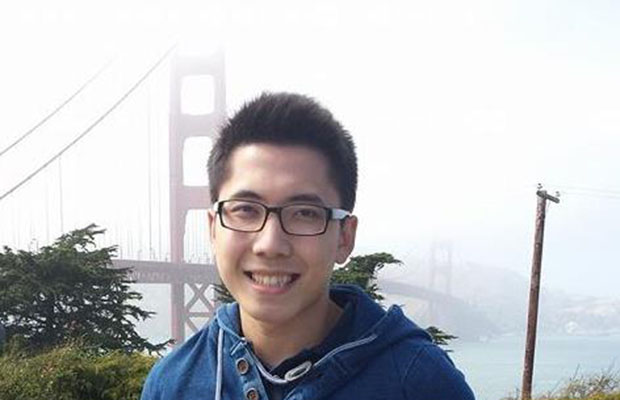
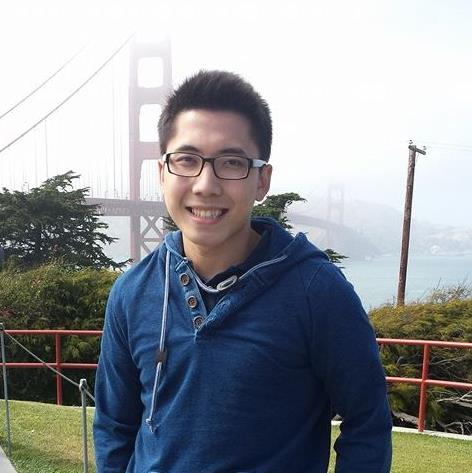
resized images for about page

diff --git a/templates/about.html b/templates/about.html
@@ -77,11 +77,11 @@
                                 <div class="bio">
                                     <p>
                                         <ul>
-                                            <li>Weirdest Quirk: Mean to Computers</li>
                                             <li>major responsibilities: Full-Stack</li>
                                             <li>no. of commits: 35</li>
                                             <li>no. of issues: 10</li>
                                             <li>no. of unit tests: 6</li>
+                                            <li>Weirdest Quirk: Mean to Computers</li>
                                         </ul>
                                     </p>
                                 </div>
@@ -99,11 +99,11 @@
                                     <!-- <h5> <strong> Developer & Designer </strong></h5> -->
                                     <p>
                                         <ul>
-                                            <li>Fun Fact: Huge Thrifter</li>
                                             <li>major responsibilities: Front-End</li>
                                             <li>no. of commits: 36</li>
                                             <li>no. of issues: 13</li>
                                             <li>no. of unit tests: 4</li>
+                                            <li>Fun Fact: Huge Thrifter</li>
                                         </ul>
                                     </p>
                                 </div>
@@ -121,11 +121,11 @@
 
                                     <p>
                                         <ul>
-                                            <li>Frisbee</li>
-                                            <li>major responsibilities: Front-End and Data</li>
+                                            <li>major responsibilities: Front-End, Data</li>
                                             <li>no. of commits: 36</li>
                                             <li>no. of issues: 15</li>
                                             <li>no. of unit tests: 3</li>
+                                            <li>Frisbee</li>
 
                                         </ul>
                                     </p>
@@ -142,11 +142,11 @@
                                 <div class="bio">
                                     <p>
                                         <ul>
-                                            <li>Favorite Travel Destination: Alaska</li>
                                             <li>major responsibilities: Back-End</li>
                                             <li>no. of commits: 9</li>
                                             <li>no. of issues: 13</li>
                                             <li>no. of unit tests: 3</li>
+                                            <li>Favorite Travel Destination: Alaska</li>
                                         </ul>
                                     </p>
                                 </div>
@@ -163,11 +163,11 @@
                                 <div class="bio">
                                     <p>
                                         <ul>
-                                            <li>Favorite Eatery: Taco Joint</li>
-                                            <li>major responsibilities: Back-End and Data</li>
+                                            <li>major responsibilities: Back-End, Data</li>
                                             <li>no. of commits: 10</li>
                                             <li>no. of issues: 15</li>
                                             <li>no. of unit tests: 3</li>
+                                            <li>Favorite Eatery: Taco Joint</li>
                                         </ul>
                                     </p>
                                 </div>
@@ -184,11 +184,11 @@
                                 <div class="bio">
                                     <p>
                                         <ul>
-                                            <li>Fun Fact: I work for UT</li>
                                             <li>major responsibilities: Back-End, Data, Unit Tests</li>
                                             <li>no. of commits: 10</li>
                                             <li>no. of issues: 38</li>
                                             <li>no. of unit tests: 7</li>
+                                            <li>Fun Fact: I work for UT</li>
                                         </ul>
                                     </p>
                                 </div>

diff --git a/static/assets/css/style.css b/static/assets/css/style.css
@@ -44,7 +44,7 @@ a {
 
 a:hover, a:focus {
   color: #E6BE42;
-  text-decoration: underline;
+  text-decoration: none;
 }
 
 /*#cities .container {
@@ -97,7 +97,7 @@ a:hover, a:focus {
 }*/
 section {
     padding-top: 80px;
-    padding-bottom: 40px;
+    /*padding-bottom: 40px;*/
 }
 
 .pad-bottom {
@@ -118,6 +118,7 @@ text-transform: uppercase;
 .header hr {
     width: 50px;
     border-top: 2px solid rgb(102, 204, 204);
+    margin-bottom: 40px
 }
 
 .content-wrapper {
@@ -590,8 +591,6 @@ padding-top: 10px;
 /*============================
 TEAM SECTION STYLES
 ==============================*/
-
-
 .team-wrapper {
 overflow-x: hidden;
 position: relative;
@@ -600,7 +599,7 @@ position: relative;
 -ms-transform: all 0.2s ease;
 -o-transition: all 0.2s ease;
 transition: all 0.2s ease;
-margin-bottom:20px;
+margin-bottom:10px;
 }
 /*.team-wrapper:hover {
 -webkit-transform: scale(1.1);
@@ -610,41 +609,40 @@ margin-bottom:20px;
 transform: scale(1.1);
 }*/
 .team-wrapper .team-inner {
-background-size: cover;
-background-position: center;
--moz-background-size: cover;
--webkit-background-size: cover;
-padding: 150px 0 10px;
-/*background-image: url('../img/girl-big.jpg');*/
-border-top: 1px solid #fff;
-border-right: 1px solid #fff;
-border-left: 1px solid #fff;
-border-radius: 10px 10px 0px 0px;
+    margin: auto;
+    /*240 for 2.5in 192 for 2in*/
+    max-width: 240px;
+    height: 240px;
+    background-position: center top;
+    background-size: cover;
+    -moz-background-size: cover;
+    -webkit-background-size: cover;
+    border-radius: 10px 10px;
+    background-repeat: no-repeat;
 }
-.team-wrapper > .team-inner > a {
-color: rgb(102,204,204);
-width: 80px;
-height: 80px;
-border-radius: 50%;
+.team-wrapper .description a {
+/*width: 80px;*/
+/*height: 80px;*/
+/*border-radius: 50%;
 -moz-border-radius: 50%;
 -webkit-border-radius: 50%;
 margin: 0 auto -50px;
-display: block;
+display: block;*/
 color: rgb(102,204,204);
-z-index: 999;
-font-size: 40px;
+/*z-index: 999;*/
+/*font-size: 40px;*/
 padding: 15px 22px;
-background-color: #fff;
--webkit-transition: all 0.8s ease-in-out;
+/*background-color: #fff;*/
+/*-webkit-transition: all 0.8s ease-in-out;
 -moz-transition: all 0.8s ease-in-out;
 -o-transition: all 0.8s ease-in-out;
-transition: all 0.8s ease-in-out;
+transition: all 0.8s ease-in-out;*/
 }
 
-.team-wrapper > .team-inner > a:hover {
-color: #fff;
-text-decoration: none;
-background-color: rgb(102,204,204);
+.team-wrapper .description a:hover, .team-wrapper .description a:focus {
+    color: #E6BE42;
+    text-decoration: none;
+    /*background-color: rgb(102,204,204);*/
 }
 
 .team-wrapper .description {
@@ -659,10 +657,7 @@ border-radius: 0px 0px 10px 10px;
 .team-wrapper .description h5 {
 color: rgb(102,204,204);
 }
-.team-wrapper .description h3, .team-wrapper .description h3 > a {
-/*color: rgb(102, 204, 204);*/
-color: #333;
-}
+
 .team-wrapper .description .bio {
 padding: 5px 20px 20px;
 text-align: left;
@@ -748,11 +743,6 @@ footer {
     bottom: 0; /* stick to bottom */
 }
 
-footer > a, footer > a:hover {
-    color: #fff;
-    text-decoration: underline;
-}
-
 /*footer {
     margin: 0 0 3em 0;
 }
@@ -782,7 +772,7 @@ table.dataTable a, {
     border-collapse: separate;
     border-spacing: 0;
     color: #66CCCC;
-    text-decoration: underline;
+    text-decoration: none;
 }
 table.dataTable a:hover {
     color: #E6BE42;
